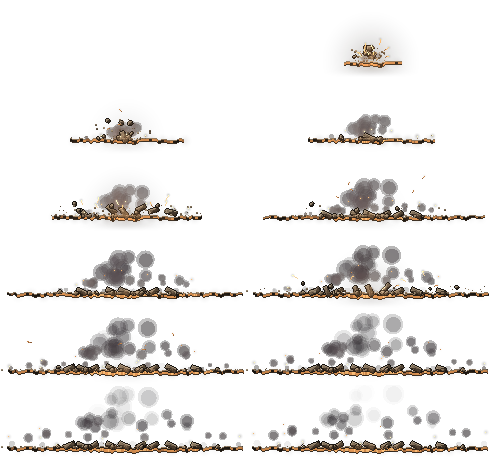
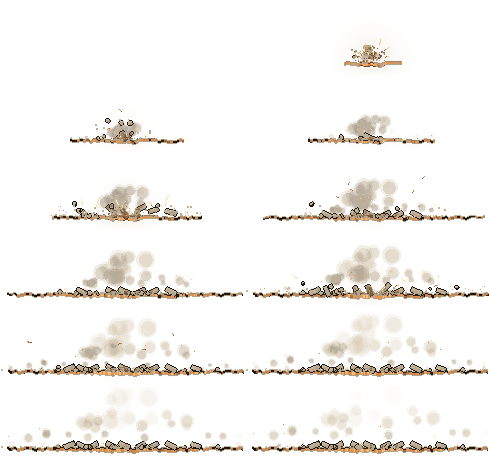
돌진 베기 연출을 돌진 방향으로 돌리고 대쉬에 pixelfx 연출을 넣으며 사냥터에서 어색하던 먼지 · 흰 빛 · 화살 크기를 고친다
Claude-Session: https://claude.ai/code/session_01Q8g6pWkC8TSph221KTEwKL

diff --git a/src/game/skillPxData.js b/src/game/skillPxData.js
@@ -1,5 +1,5 @@
 /* ── 스킬 상점 스킬 연출 — pixelfx(MIT, github.com/patch-gg/pixelfx)로 뽑은 픽셀 시트 ─────────────
-   스킬 상점에서 파는 액티브 13종(일반 4 · 직업 9)의 연출만 바꾼다. 판정(맞는 시각 · 범위)은 rpg.js 그대로다.
+   스킬 상점에서 파는 액티브 13종(일반 4 · 직업 9)과 대쉬의 연출만 바꾼다. 판정(맞는 시각 · 범위)은 rpg.js 그대로다.
    시트는 public/assets/game/rpg/effects/skill-px/<이름>.webp. 1배 픽셀 그대로 두고 그릴 때 키운다(흐림 없음).
    뽑는 법 · 색은 design/effects/pixelfx/skill-shop/make.mjs. 그리기는 skillPxArt.js.
    연출 kind 는 "sk_px_<시트>" — 스킬 연출이라 rpgArt.js 의 CROWD · FX_LOD 규칙으로 남의 것은 덜 그린다. */
@@ -9,10 +9,11 @@ export const SKILL_PX_SRC = "/assets/game/rpg/effects/skill-px/";
 // 시트 칸 — w · h 한 칸 크기, cols 열 수, n 칸 수, px · py 기준점(대부분 발밑), loop 반복 여부
 export const SKILL_PX_SHEETS = {
   smash: { w: 148, h: 91, cols: 3, n: 12, px: 55, py: 73 },                // melee/hammer-smash
-  burst: { w: 169, h: 143, cols: 4, n: 14, px: 77, py: 118 },              // arcane/mana-burst
+  burst: { w: 166, h: 138, cols: 4, n: 14, px: 76, py: 116 },              // arcane/mana-burst
   pierce: { w: 163, h: 120, cols: 3, n: 10, px: 66, py: 92 },              // impacts/crit-hit
   aid: { w: 107, h: 114, cols: 5, n: 16, px: 53, py: 105 },                // nature/healing-bloom
   rush: { w: 148, h: 63, cols: 2, n: 8, px: 5, py: 53 },                   // melee/thrust
+  dash: { w: 144, h: 62, cols: 2, n: 8, px: 11, py: 52 },                  // melee/thrust(푸른 잿빛)
   spin: { w: 175, h: 87, cols: 3, n: 10, px: 75, py: 69 },                 // melee/spin-slash
   cleave: { w: 245, h: 77, cols: 2, n: 12, px: 126, py: 62 },              // nature/quake
   arrow: { w: 81, h: 15, cols: 2, n: 6, px: 79, py: 7, loop: 1 },          // projectiles/arrow
@@ -41,28 +42,30 @@ export const SKILL_PX_ELEMS = ["flame", "frost", "bolt", "poison", "corrode", "g
 export const SKILL_PX_ELEM_FALLBACK = "frost";
 
 /* 그리는 법 — kind 마다.
-   mode: at 한 점(x, y 발밑) · along 두 점 사이에 눕혀 늘린다(x0 → x1) · fly 두 점 사이를 날아간다
+   mode: at 한 점(x, y 발밑) · along 두 점 사이에 눕혀 늘린다(x0 → x1) · fly 두 점 사이를 날아간다 · ray x0 에서 x1 쪽으로 돌려 그린다(늘리지 않는다)
+   cy ray 에서 돌리는 중심 줄(1배 픽셀 행) — 줄기가 지나는 높이
    k 키우는 배수(1배 픽셀 → 게임 좌표) · rk 반지름(f.r)에 맞출 때 시트 1배의 반지름(k = r / rk, kMax 넘지 않게)
    span along 에서 시트 1배의 가로 길이(두 점 거리 / span 만큼 늘린다) · lift 기준점을 위로 띄우는 높이(게임 좌표)
    ring 범위 고리를 함께 그린다(예전 고리와 같은 크기 · 1px 얇은 선) · spin 반복 시트를 몇 배 빠르게 돌리는지
    from 한 번짜리 시트의 앞부분을 이 몫만큼 건너뛴다(맞는 순간에 바로 터지게) */
 export const SKILL_PX_LOOK = {
   smash: { mode: "at", k: 2, from: 0.25 },                       // 강타 — 맞은 자리에 망치 내려찍기
-  burst: { mode: "at", rk: 62, kMax: 2.6, ring: 1 },     // 마력 폭발 — 둘레 210 에 맞춘 마력 고리
+  burst: { mode: "at", rk: 62, kMax: 2.6, ring: 1, from: 0.36 },   // 마력 폭발 — 둘레 210 에 맞춘 마력 고리
   pierce: { mode: "at", k: 1.5 },                      // 급소 찌르기 — 치명타 불꽃
   aid: { mode: "at", k: 2, from: 0.15 },                         // 응급 처치 — 발밑에 피어나는 꽃
-  rush: { mode: "at", k: 2 },                          // 돌진 베기 — 출발 자리의 찌르기 줄기
+  rush: { mode: "ray", k: 2, cy: 33 },                 // 돌진 베기 — 출발 자리에서 돌진하는 쪽으로 뻗는 찌르기 줄기
   spin: { mode: "at", rk: 60, kMax: 3, ring: 1 },      // 돌진 베기 — 닿은 자리 둘레 120 을 도는 칼바람
   cleave: { mode: "along", span: 236, k: 1.7 },        // 대지 가르기 — 한 줄로 갈라지는 땅
   arrow: { mode: "fly", k: 2.4 },                        // 관통 화살 · 연사 — 날아가는 화살
-  arrow_ice: { mode: "fly", k: 2.4 },                    // 후퇴 사격 — 서리빛 화살
+  arrow_ice: { mode: "fly", k: 3 },                      // 후퇴 사격 — 서리빛 화살
   spark: { mode: "at", k: 1.8 },                       // 화살이 맞은 자리
-  spark_ice: { mode: "at", k: 1.8 },                   // 후퇴 사격이 맞은 자리
+  spark_ice: { mode: "at", k: 2.4 },                   // 후퇴 사격이 맞은 자리
   chain: { mode: "along", span: 70, k: 1.6, kMax: 3, end: 1 },   // 연쇄 번개 — 앞 대상에서 뻗어 오는 번개(끝점이 맞은 자리)
   iron: { mode: "at", rk: 29, kMax: 2.6, spin: 2.4 },  // 철벽 — 몸을 감싸는 방패 구슬
   circle: { mode: "at", rk: 40, kMax: 2.4, ring: 1 },         // 강화 마법진 — 발밑 마법진과 빛기둥
   orb: { mode: "fly", k: 2, elem: 1 },                 // 원소 구체 — 날아가는 원소 구슬
   boom: { mode: "at", rk: 80, kMax: 2.4, ring: 1, elem: 1 },   // 원소 구체 — 맞은 자리 둘레 140 폭발
+  dash: { mode: "ray", k: 1.6, cy: 32 },               // 대쉬 — 달려가는 쪽으로 남는 바람 줄기(모든 직업)
 };
 // 같은 종류는 최근 몇 개만 그린다(rpgArt.js FX_LOD.cap) — 연사 화살 · 연쇄 번개처럼 한 번에 여럿 나오는 것만 넉넉히
 export const SKILL_PX_CAP = { sk_px_arrow: 10, sk_px_spark: 10, sk_px_chain: 8, sk_px_boom: 4, sk_px_burst: 4, sk_px_cleave: 4 };

diff --git a/src/game/updates.js b/src/game/updates.js
@@ -2,9 +2,10 @@
    id가 바뀌면 아직 안 본 사람의 단추에 점이 뜬다.
    id 는 순서를 가리는 값이라 이미 나간 것은 고치지 않는다. 화면에 보이는 날짜는 date 다(한국 시간 기준으로 적는다). */
 // RPG 서버에 들어오면 한 번 띄우는 업데이트 공지 — id 를 바꾸면 모두에게 다시 뜬다. notes 는 아래 UPDATES 의 id(위에서부터 보인다)
-export const RPG_NOTICE = { id: "2026-10-180", notes: ["2026-10-180", "2026-10-179"] };
+export const RPG_NOTICE = { id: "2026-10-181", notes: ["2026-10-181", "2026-10-180"] };
 
 export const UPDATES = [
+  { id: "2026-10-181", date: "11월 1일", items: ["돌진 베기 연출이 돌진하는 방향으로 나갑니다. 위 · 아래 · 대각선으로 달려도 줄기가 같은 쪽을 향합니다.", "대쉬에도 새 픽셀 연출이 생겼습니다. 달려간 길에 바람 줄기가 남습니다.", "밝은 사냥터에서 어색하던 것을 고쳤습니다. 강타 · 대지 가르기의 먼지를 흙빛으로 바꿨고 마력 폭발의 흰 빛이 캐릭터를 가리지 않습니다. 후퇴 사격 화살을 키웠습니다."] },
   { id: "2026-10-180", date: "11월 1일", items: ["스킬 상점에서 배우는 액티브 스킬 13개의 연출을 새 픽셀 연출로 바꿨습니다.", "강타 · 마력 폭발 · 급소 찌르기 · 응급 처치, 그리고 직업 스킬 아홉 개가 모두 바뀌었습니다.", "피해 · 맞는 시각 · 범위는 그대로입니다. 둘레를 치는 스킬은 예전과 같은 크기의 범위 고리가 함께 보입니다."] },
   { id: "2026-10-179", date: "11월 1일", items: ["심연의 탑 강화 카드는 20초 안에 고릅니다. 시간이 지나면 셋 중 하나가 무작위로 골라지고 저주는 거절됩니다.", "카드를 고르는 동안 탑이 멈춥니다. 몹 · 날아가던 공격 · 깔린 스킬 · 받는 피해 · 카드 효과 시간까지 모두 멈춥니다.", "여럿이 오르면 모두 고를 때까지 기다리고 다 고르면 3초 뒤 다음 층이 시작됩니다. 3초 동안에도 멈춰 있습니다.", "카드 고르는 화면이 방어전 보상 화면과 같은 모양으로 바뀌었습니다."] },
   { id: "2026-10-178", date: "11월 1일", items: ["심연의 탑에 강화 카드 200종이 생겼습니다. 들어가자마자 한 장, 층을 깰 때마다 한 장씩 셋 가운데 하나를 고릅니다.", "같은 카드를 다시 고르면 브론즈 · 골드 · 다이아로 오릅니다. 다이아가 가장 셉니다.", "5층마다 저주 선택이 따로 나옵니다. 저주 하나를 받으면 강화 카드를 한 장 더 고릅니다. 거절해도 됩니다.", "3층부터 정예 몹이 섞여 나옵니다. 카드는 탑을 나오면 사라집니다."] },

diff --git a/src/game/rpg.js b/src/game/rpg.js
@@ -2359,7 +2359,8 @@ export function rpgDash(g, pi, aim) {
   if (!startDash(h, aim)) return;
   if (h.ac) acOnDash(g, h);
   if (heldSpecial(h) === "gold_bow") { const w = wsOf(h); w.dashT = DASH.time + WS.gold_bow.passive.win; w.dashUsed = 0; }   // 비상의 리듬
-  fx(g, h.map, { kind: "burst", x: x0, y: y0 - 10, r: 22, color: "#e8f2ff", n: 8, t: 0.3, life: 0.3, snd: "slash", who: pi });
+  // 달려가는 쪽으로 남는 바람 줄기(pixelfx · skillPxArt.js) — 방향은 startDash 가 정한 속도
+  fx(g, h.map, { kind: "sk_px_dash", x: x0, y: y0 - 30, x0, y0: y0 - 30, x1: x0 + h.dvx, y1: y0 - 30 + h.dvy * RPG.squash, t: 0.3, life: 0.3, snd: "slash", who: pi });
 }
 
 /* ── 산 스킬 — 숫자키로 쓴다 (방장만 판정) ─────────────────────────
@@ -2408,10 +2409,10 @@ export function rpgUseSkill(g, pi, id) {
       if (!m) {                                    // 아무도 없으면 겨눈 쪽으로 끝까지 돌진한다
         const [tx, ty] = aimAt(h, L.reach);
         lungeTo(h, { x: tx, y: ty, rad: -2 * LUNGE_GAP }, L.time);
-        fx(g, map, { kind: "sk_px_rush", x: x0, y: y0, dir: tx < x0 ? -1 : 1, t: 0.3, life: 0.3, snd: "slash" });
+        fx(g, map, { kind: "sk_px_rush", x: x0, y: y0 - 30, x0, y0: y0 - 30, x1: tx, y1: ty - 30, t: 0.3, life: 0.3, snd: "slash" });   // 돌진하는 쪽으로 돌려 그린다
       } else {
       lungeTo(h, m, L.time);
-      fx(g, map, { kind: "sk_px_rush", x: x0, y: y0, dir: m.x < x0 ? -1 : 1, t: 0.3, life: 0.3, snd: "slash" });
+      fx(g, map, { kind: "sk_px_rush", x: x0, y: y0 - 30, x0, y0: y0 - 30, x1: m.x, y1: m.y - 30, t: 0.3, life: 0.3, snd: "slash" });
       // 닿는 순간에 찌른다 — 그사이 상대가 쓰러졌거나 맵을 떠났으면 빗나간다
       const hit = { t: L.time, pi, x: m.x, y: m.y, map, splash: u.splash || 0, full: u.splash ? 1 : 0, skill: true, sure: !!u.crit, cast };   // 돌진 베기는 닿은 자리 둘레를 모두
       if (u.splash) later(g, L.time, () => fx(g, map, { kind: "sk_px_spin", x: h.x, y: h.y - 8, r: u.splash, color: elemOf(h).light, dir: h.dir, t: 0.5, life: 0.5, snd: "boom" }));

diff --git a/src/game/bookData.js b/src/game/bookData.js
@@ -33,6 +33,14 @@ const dropAvg = DROP_ROLL.reduce((n, [c, w]) => n + c * w, 0) / total;
 // 10월 26일 (7) 때의 400~800 체력 — 구역 시작 레벨마다(끝 하나 더) · 보스. 같은 날 (8)에서 낮춰 책에는 그때 값을 적는다
 const DEEP_WAS = { mob: [226100, 279650, 339150, 404600, 476000, 553350, 636650, 725900, 821100], boss: [3689000, 4462500, 5355000, 6426000, 7616000, 8925000, 10412500, 11900000] };
 export const PATCH_BOOKS = [
+  { id: "patch-2026-11-01k", title: "패치노트 · 11월 1일 (11)", sub: "돌진 방향 · 대쉬 연출", color: "#a8bad2",
+    pages: [
+      { h: "돌진 베기 방향", p: ["돌진 베기 줄기가 돌진하는 쪽을 향합니다. 전에는 아래로 달려도 가로로만 나갔습니다."] },
+      { h: "대쉬 연출", p: ["대쉬를 쓰면 달려간 길에 푸른 잿빛 바람 줄기가 남습니다. 모든 직업이 같습니다.", "대쉬 거리 · 무적 시간 · 재사용 대기는 그대로입니다."] },
+      { h: "어색하던 곳", p: ["강타 · 대지 가르기의 먼지가 밝은 풀밭에서 검댕처럼 보여 흙빛으로 바꿨습니다.",
+        "마력 폭발은 처음의 흰 빛을 건너뛰고 마력 고리부터 보입니다. 캐릭터를 가리지 않습니다.",
+        "후퇴 사격의 화살과 맞은 자리 불꽃을 키웠습니다."] },
+    ] },
   { id: "patch-2026-11-01j", title: "패치노트 · 11월 1일 (10)", sub: "스킬 상점 스킬 새 연출", color: "#b4a6dc",
     pages: [
       { h: "새 픽셀 연출", p: ["스킬 상점에서 배우는 액티브 스킬 13개의 연출이 바뀌었습니다.",

diff --git a/src/game/skillPxArt.js b/src/game/skillPxArt.js
@@ -74,6 +74,13 @@ export function drawSkillPx(ctx, f, p) {
     if (dx < 0 && !look.end) ctx.scale(1, -1);           // 왼쪽으로 누우면 위아래가 뒤집히지 않게
     const ky = look.end ? kx : look.k || 1;
     ctx.drawImage(im, sx, sy, S.w, S.h, -S.px * kx, -S.py * ky, S.w * kx, S.h * ky);
+  } else if (look.mode === "ray") {                      // 출발점에서 x1 쪽으로 돌려 그린다 — 돌진 · 대쉬 줄기
+    const dx = f.x1 - f.x0, dy = f.y1 - f.y0;
+    ctx.translate(f.x0, f.y0);
+    ctx.rotate(Math.atan2(dy, dx));
+    if (dx < 0) ctx.scale(1, -1);
+    const cy = look.cy ?? S.py;
+    ctx.drawImage(im, sx, sy, S.w, S.h, -S.px * k, -cy * k, S.w * k, S.h * k);
   } else {                                                 // fly — 머리(기준점)가 x0 → x1 로 날아간다
     const x = f.x0 + (f.x1 - f.x0) * p, y = f.y0 + (f.y1 - f.y0) * p;
     ctx.translate(x, y);

diff --git a/design/effects/pixelfx/skill-shop/lighten.py b/design/effects/pixelfx/skill-shop/lighten.py
@@ -1,0 +1,15 @@
+# 밝은 사냥터에서 검댕처럼 보이는 잿빛 먼지 · 연기를 흙빛으로 밝힌다(아주 어두운 테두리와 색 있는 불빛은 그대로)
+import sys
+from PIL import Image
+src,dst=sys.argv[1],sys.argv[2]
+im=Image.open(src).convert('RGBA'); px=im.load()
+DUST=(214,200,174)
+for y in range(im.height):
+  for x in range(im.width):
+    r,g,b,a=px[x,y]
+    if a==0: continue
+    l=(r*3+g*6+b)/10
+    if (a<235 and l<150) or (40<=l<175 and max(r,g,b)-min(r,g,b)<48):
+      k=0.75 if a>=235 else min(1,(175-l)/130)
+      px[x,y]=(int(r+(DUST[0]-r)*k),int(g+(DUST[1]-g)*k),int(b+(DUST[2]-b)*k),a)
+im.save(dst,lossless=True,method=6)

diff --git a/public/assets/game/README.md b/public/assets/game/README.md
@@ -91,7 +91,7 @@ python3 tools/png-to-webp.py             # public/assets/game 에 WebP 와 manif
 
 비룡육연사 비행 그림: `rpg/effects/dragon-flight.webp` — 투명 1536×1024, 3열×2행, 칸당512×512. 왼쪽 위부터 날개 위·내리는 중·수평·아래·돌아오는 중·올리는 중의 6프레임이다. 붉은 비늘과 금빛 뿔의 용이 오른쪽을 향한다. `worldEquipmentData.js`의 `DRAGON_FLIGHT_ART`가 각 프레임의 주둥이 기준점과 표시 크기230을 정의한다. `dragonFlightArt.js`가 발사 방향으로 돌려 그린다. RPG 진입 때 미리 읽고 실패하면 코드로 그린 용으로 대신한다.
 
-스킬 상점 스킬 연출: `rpg/effects/skill-px/*.webp` — pixelfx(MIT, github.com/patch-gg/pixelfx 커밋 a841596)로 뽑은 투명 픽셀 시트 26장. 1배 픽셀 그대로 두고 그릴 때 키운다(흐림 없음). 칸 크기 · 열 수 · 칸 수 · 기준점(대부분 발밑)은 `skillPxData.js` `SKILL_PX_SHEETS`, 그리기는 `skillPxArt.js`. 처음 쓸 때 한 장씩 불러오고 못 불러오면 얇은 고리 · 선으로 대신한다. 뽑는 법과 색은 `design/effects/pixelfx/skill-shop/make.mjs`.
+스킬 상점 스킬 연출: `rpg/effects/skill-px/*.webp` — pixelfx(MIT, github.com/patch-gg/pixelfx 커밋 a841596)로 뽑은 투명 픽셀 시트 27장. 강타 · 대지 가르기는 밝은 풀밭에서 먼지가 검댕처럼 보여 `lighten.py` 로 흙빛으로 밝혔다. 1배 픽셀 그대로 두고 그릴 때 키운다(흐림 없음). 칸 크기 · 열 수 · 칸 수 · 기준점(대부분 발밑)은 `skillPxData.js` `SKILL_PX_SHEETS`, 그리기는 `skillPxArt.js`. 처음 쓸 때 한 장씩 불러오고 못 불러오면 얇은 고리 · 선으로 대신한다. 뽑는 법과 색은 `design/effects/pixelfx/skill-shop/make.mjs`.
 
 | 파일 | 스킬 | pixelfx 이펙트 |
 |---|---|---|
@@ -100,6 +100,7 @@ python3 tools/png-to-webp.py             # public/assets/game 에 WebP 와 manif
 | pierce | 급소 찌르기 | impacts/crit-hit |
 | aid | 응급 처치 | nature/healing-bloom |
 | rush · spin | 돌진 베기 | melee/thrust · melee/spin-slash |
+| dash | 대쉬(모든 직업) | melee/thrust(푸른 잿빛) |
 | cleave | 대지 가르기 | nature/quake |
 | iron | 철벽 | holy/divine-shield(반복) |
 | arrow · spark | 관통 화살 · 연사 | projectiles/arrow(반복) · impacts/hit-spark |
